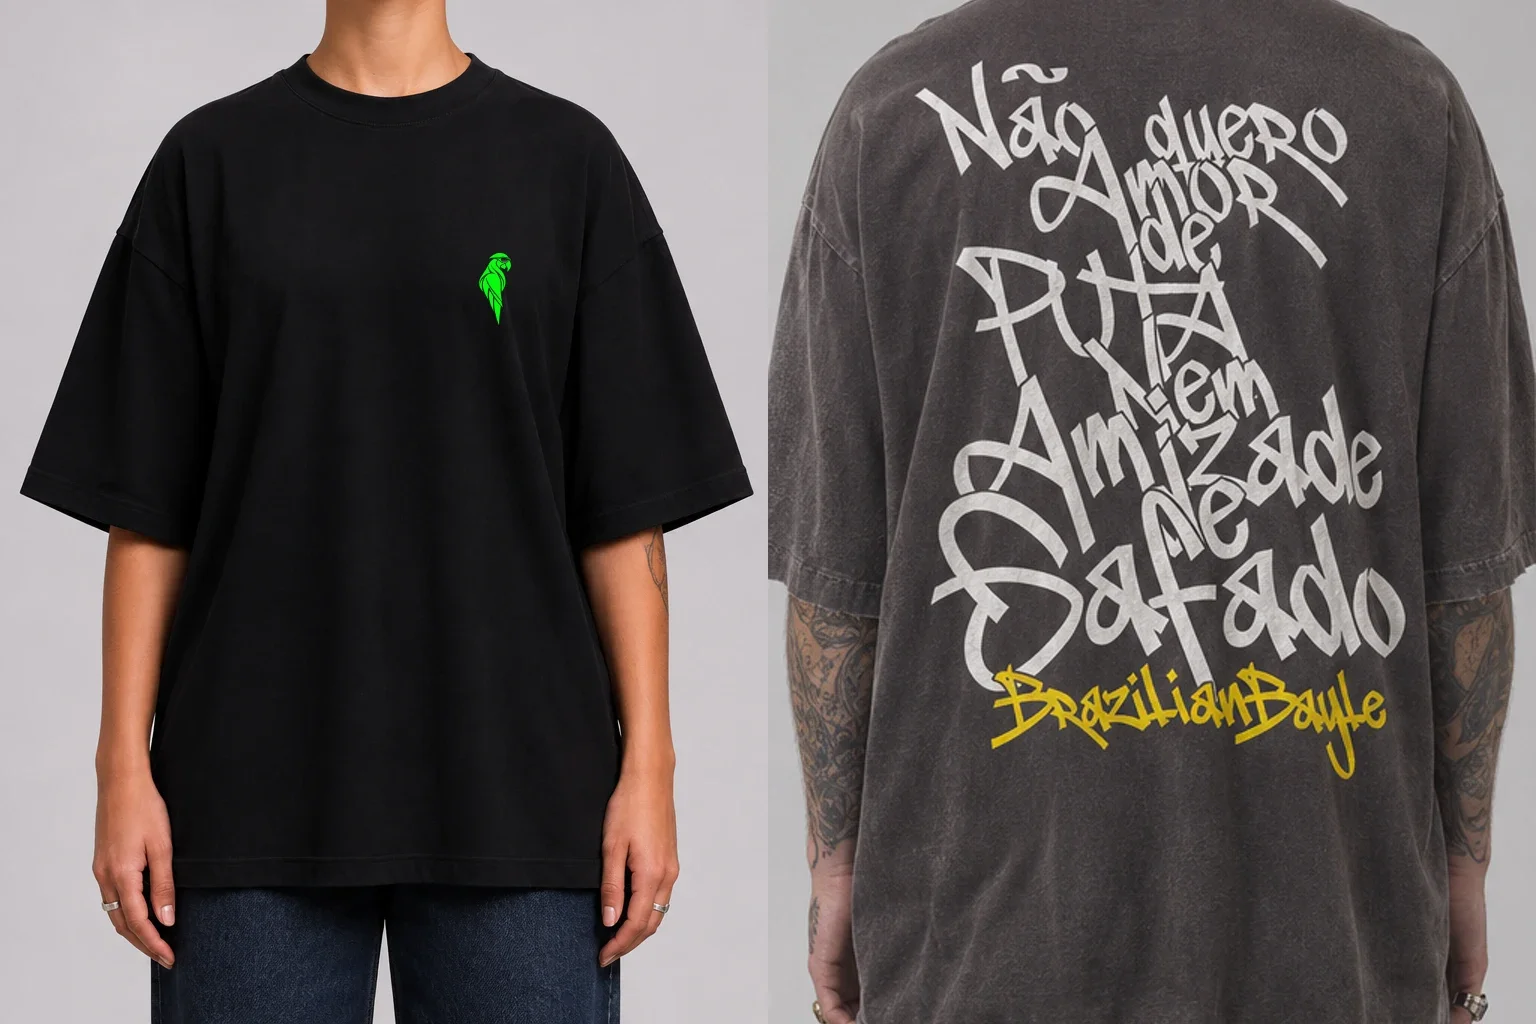
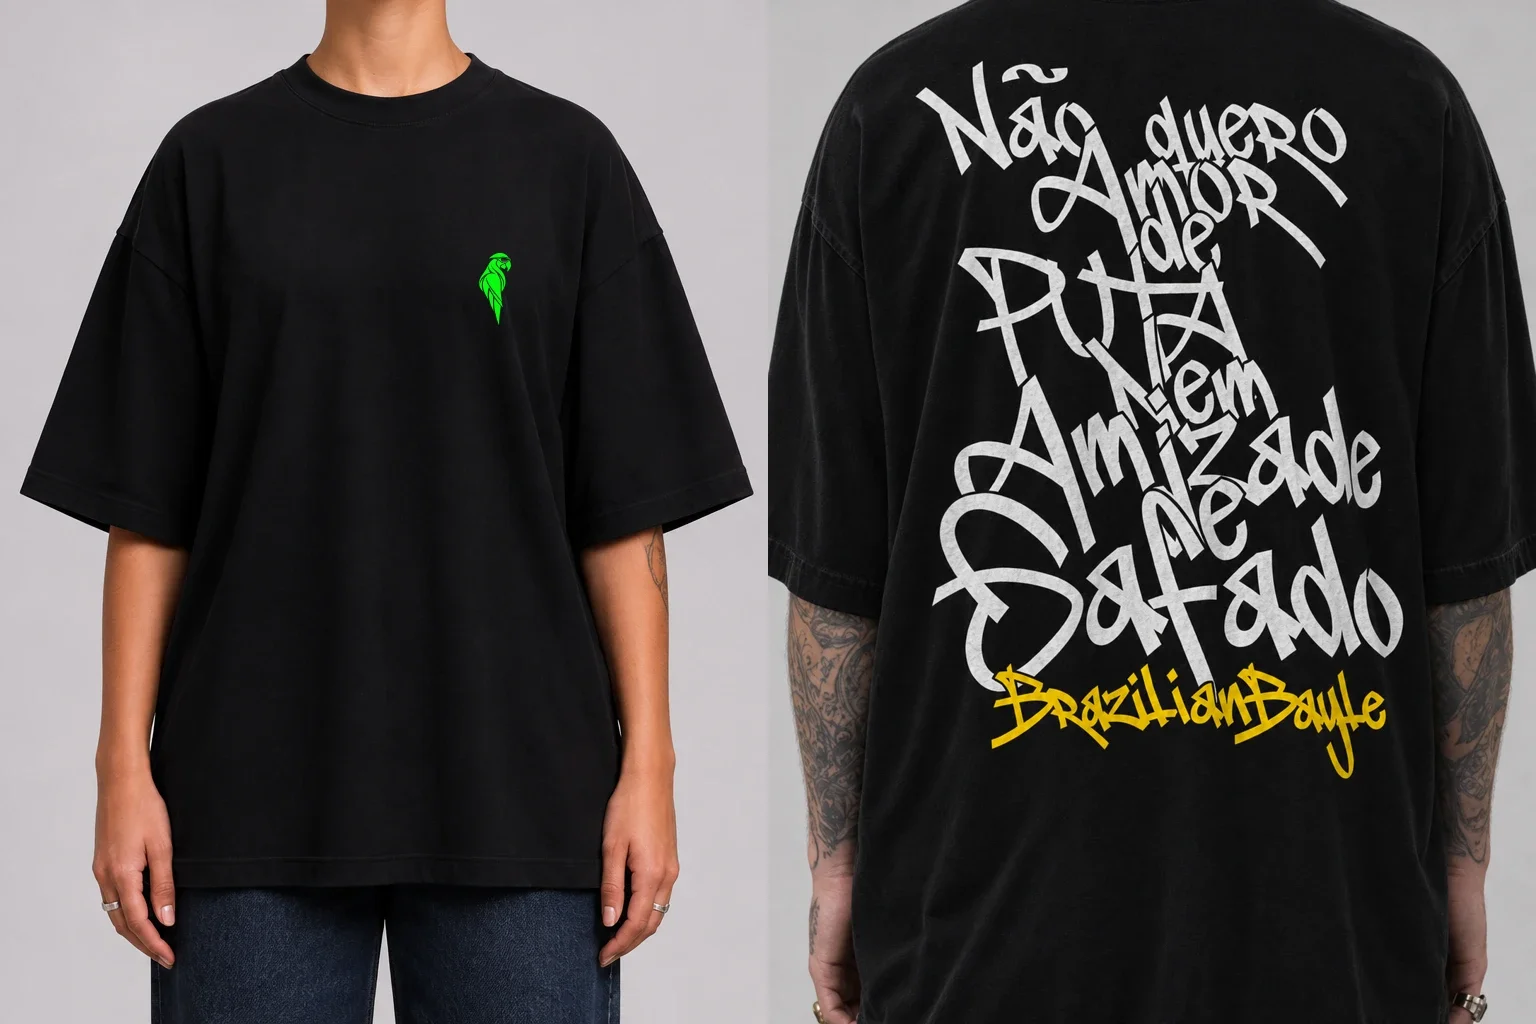
Deepen black shirt mockups and refresh Vintage Culture gallery

diff --git a/_local/build.js b/_local/build.js
@@ -461,7 +461,7 @@ const DJNAMES = (() => { const m = fs.readFileSync(path.join(ROOT, "app.js"), "u
 fs.writeFileSync(path.join(OUT,"events-2026.js"),"window.BRB_DJNAMES="+JSON.stringify(DJNAMES)+";window.BRB_BR="+JSON.stringify([...new Set(DJLIST.filter(isBrazilian).map(d=>slugify(d.nome)))])+";window.BRB_PEDIA="+JSON.stringify([...new Set(DJLIST.filter(d=>!d.curitiba).map(d=>slugify(d.nome)))])+";window.BRB_EVENTS="+JSON.stringify(readJson("events-2026.json").events)+";window.BRB_CLUBS="+JSON.stringify(readJson("clubes.json").clubes)+";window.BRB_TEMP="+JSON.stringify((({ clubs, festas }) => ({ clubs, festas }))(readJson("temperatura.json")))+";");
 // Content hashes prevent old CSS and card scripts being mixed after a deploy.
 const crypto = require('crypto');
-const versioned = ['styles.css','card-effects.js','app.js','support.js','session-menu.js','points-badge.js','account.js','management.js','backend.js','spotted.js','album.js','after.js','djedit.js','djindex.js','moderation.js','temperatura.js','ingressos.js','events-2026.js','after-motion.js'].map(file => [file, crypto.createHash('sha256').update(fs.readFileSync(path.join(OUT,file))).digest('hex').slice(0,12)]);
+const versioned = ['styles.css','commerce.js','card-effects.js','app.js','support.js','session-menu.js','points-badge.js','account.js','management.js','backend.js','spotted.js','album.js','after.js','djedit.js','djindex.js','moderation.js','temperatura.js','ingressos.js','events-2026.js','after-motion.js'].map(file => [file, crypto.createHash('sha256').update(fs.readFileSync(path.join(OUT,file))).digest('hex').slice(0,12)]);
 function versionHtml(dir) {
   for (const entry of fs.readdirSync(dir,{withFileTypes:true})) {
     const file = path.join(dir,entry.name);
@@ -469,6 +469,7 @@ function versionHtml(dir) {
     else if (entry.name.endsWith('.html')) {
       let html = fs.readFileSync(file,'utf8');
       for (const [asset,hash] of versioned) html = html.replaceAll(`/${asset}"`,`/${asset}?v=${hash}"`);
+      html = html.replace(/\/assets\/shop\/bayle\/(?:03-vintage-culture|08-grafite|09-nem-bateu)(?:-off-white)?-(?:costas|completo)\.webp(?=")/g, url => url + "?v=mockups-v2");
       fs.writeFileSync(file,html);
     }
   }

diff --git a/commerce.js b/commerce.js
@@ -4,7 +4,7 @@
  const API='https://bereyocdqacudfvazdpa.supabase.co/functions/v1/brb-checkout';
  const CART='brb-cart-v1', ORDER='brb-checkout-order-v1', QUOTE='brb-quote-v1';
  const colors={preta:'Preta','off-white':'Off-white',cinza:'Cinza'};
- const variantPhoto=(id,color)=>'/assets/shop/bayle/'+id+(color==='cinza'||color==='off-white'?'-'+color:'')+'-costas.webp';
+ const variantPhoto=(id,color)=>'/assets/shop/bayle/'+id+(color==='cinza'||color==='off-white'?'-'+color:'')+'-costas.webp'+(color!=='cinza' && ['03-vintage-culture','08-grafite','09-nem-bateu'].includes(id) ? '?v=mockups-v2' : '');
  const money=value=>new Intl.NumberFormat('pt-BR',{style:'currency',currency:'BRL'}).format(value/100);
  const el=id=>document.getElementById(id);
  /* Medidas da camiseta oversized (PR #11), exibidas na sacola e no checkout. */

diff --git a/app.js b/app.js
@@ -968,7 +968,7 @@ if (matchMedia('(prefers-reduced-motion: reduce)').matches) document.querySelect
   const showPhoto = async (view, { animate } = {}) => {
     clearTimeout(autoFlipTimer);
     panel3d.hidden = true; stage.classList.remove('is-3d'); image.hidden = false;
-    const next = '/assets/shop/bayle/' + id + '-' + view + '.webp';
+    const next = '/assets/shop/bayle/' + id + '-' + view + '.webp' + (view === 'costas' && ['03-vintage-culture','08-grafite','09-nem-bateu'].includes(id) ? '?v=mockups-v2' : '');
     tabs.forEach(b => b.setAttribute('aria-pressed', String(b.dataset.bayleView === view)));
     if (image.src.endsWith(next)) return;
     image.alt = title + ': ' + (view === 'frente' ? 'vista de frente com o papagaio no peito' : 'vista de costas com a estampa');
